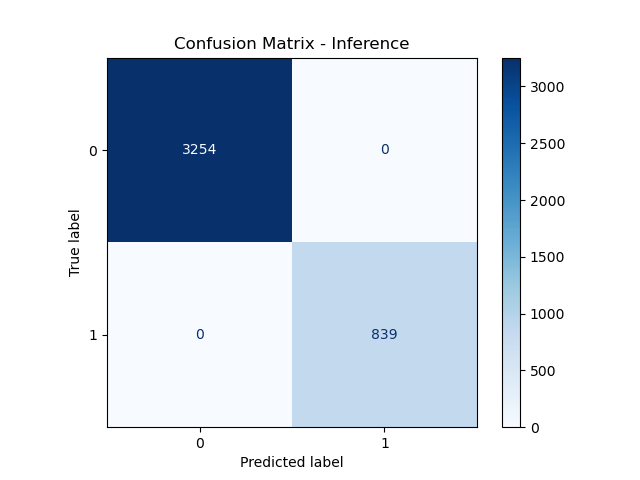
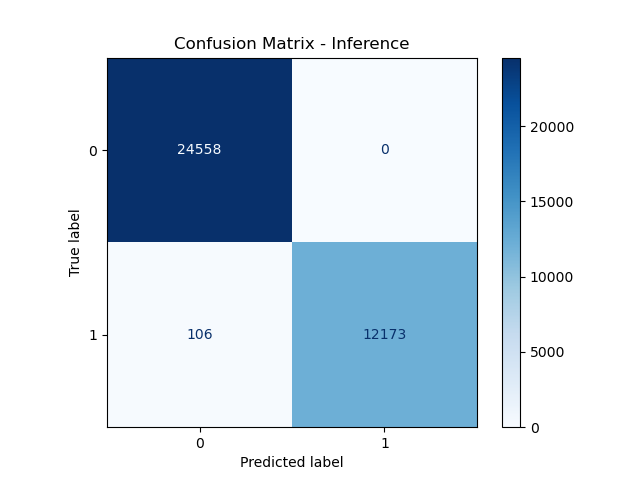
fix: agent index issue when loading dataset

diff --git a/traj_interact_predict/data/data_loader.py b/traj_interact_predict/data/data_loader.py
@@ -134,6 +134,7 @@ class DroneInteractionDataset(Dataset):
         agents = flight_data["drone_id"].unique().tolist()
         num_agents = len(agents)
         agent_id2idx = {agent: i for i, agent in enumerate(agents)}
+        idx2agent_id = {i: agent for agent, i in agent_id2idx.items()}
 
         trajectories = []
         roles = []
@@ -224,15 +225,23 @@ class DroneInteractionDataset(Dataset):
         # Build pairs and labels
         pairs, labels = [], []
         friendly_agents = [
-            a
-            for a in valid_agent_ids
-            if self.role_map[flight_data[flight_data["drone_id"] == a]["role"].iloc[0]]
+            idx
+            for idx in valid_agent_ids
+            if self.role_map[
+                flight_data[flight_data["drone_id"] == idx2agent_id[idx]]["role"].iloc[
+                    0
+                ]
+            ]
             == 0
         ]
         unauth_agents = [
-            a
-            for a in valid_agent_ids
-            if self.role_map[flight_data[flight_data["drone_id"] == a]["role"].iloc[0]]
+            idx
+            for idx in valid_agent_ids
+            if self.role_map[
+                flight_data[flight_data["drone_id"] == idx2agent_id[idx]]["role"].iloc[
+                    0
+                ]
+            ]
             == 1
         ]
 
@@ -240,9 +249,11 @@ class DroneInteractionDataset(Dataset):
 
         for src in friendly_agents:
             for tgt in unauth_agents:
-                pairs.append([agent_id2idx[src], agent_id2idx[tgt]])
-                mask = (flight_relations["drone_id"] == src) & (
-                    flight_relations["target_id"] == tgt
+                pairs.append([src, tgt])
+                src_id = idx2agent_id[src]
+                tgt_id = idx2agent_id[tgt]
+                mask = (flight_relations["drone_id"] == src_id) & (
+                    flight_relations["target_id"] == tgt_id
                 )
                 labels.append(
                     int(

diff --git a/scripts/inference.py b/scripts/inference.py
@@ -123,8 +123,8 @@ def main():
 
     # Inference config
     batch_size = 32
-    num_friendly_to_pad = 2
-    num_unauth_to_pad = 2
+    num_friendly_to_pad = 0
+    num_unauth_to_pad = 0
 
     # Log batch size and padded agents
     logger.info("Inference batch size: %d", batch_size)
